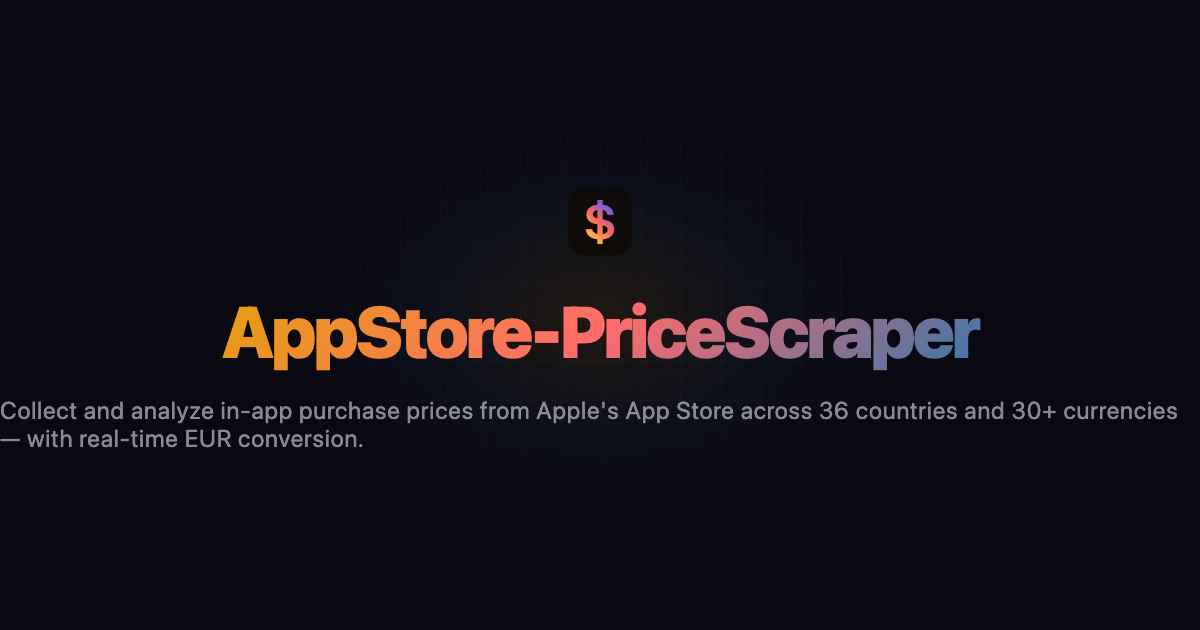
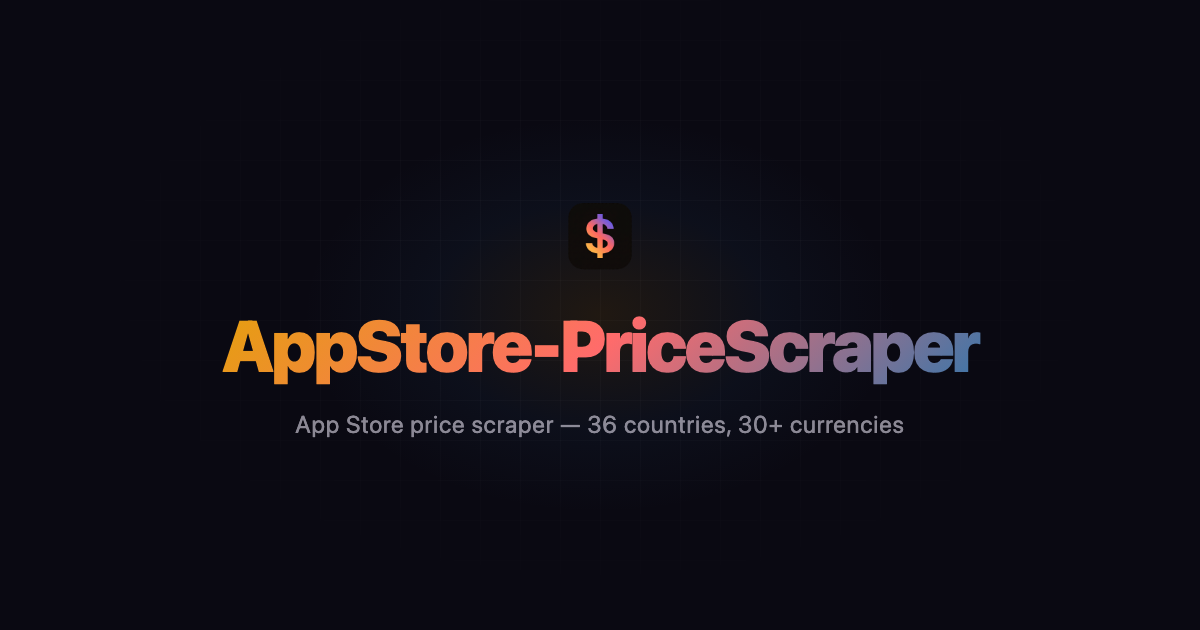
docs: shorten tagline on site + OG image

Changed region(s): [[0.185, 0.4825, 0.8325, 0.6032], [0.0, 0.6333, 0.9867, 0.7238], [0.4625, 0.3016, 0.5242, 0.4222]]

diff --git a/docs/index.html b/docs/index.html
@@ -7,16 +7,16 @@
 <link href="https://fonts.googleapis.com/css2?family=Inter:wght@400;500;600;700;800;900&family=JetBrains+Mono:wght@400;500&display=swap" rel="stylesheet">
 <meta name="viewport" content="width=device-width, initial-scale=1.0">
 <title>AppStore-PriceScraper</title>
-<meta name="description" content="App Store Price Scraper">
+<meta name="description" content="App Store price scraper — 36 countries, 30+ currencies">
 <meta name="theme-color" content="#0a0912">
 <meta property="og:title" content="AppStore-PriceScraper">
-<meta property="og:description" content="App Store Price Scraper">
+<meta property="og:description" content="App Store price scraper — 36 countries, 30+ currencies">
 <meta property="og:type" content="website">
-<meta property="og:image" content="assets/og-image.png">
+<meta property="og:image" content="assets/logo.png">
 <meta name="twitter:card" content="summary_large_image">
 <meta name="twitter:title" content="AppStore-PriceScraper">
-<meta name="twitter:description" content="App Store Price Scraper">
-<meta name="twitter:image" content="assets/og-image.png">
+<meta name="twitter:description" content="App Store price scraper — 36 countries, 30+ currencies">
+<meta name="twitter:image" content="assets/logo.png">
 <link rel="icon" type="image/png" href="assets/logo.png">
 
 <script src="https://cdn.tailwindcss.com"></script>
@@ -273,7 +273,7 @@ a:active, button:active { transform: scale(0.97); transition: transform 0.1s eas
       </h1>
 
       <p class="text-muted text-lg md:text-xl max-w-2xl leading-relaxed mb-12 font-medium">
-        Collect and analyze in-app purchase prices from Apple's App Store across 36 countries and 30+ currencies — with real-time EUR conversion.
+        App Store price scraper — 36 countries, 30+ currencies
       </p>
 
       <div class="flex flex-col sm:flex-row gap-4 mb-16 w-full sm:w-auto">
